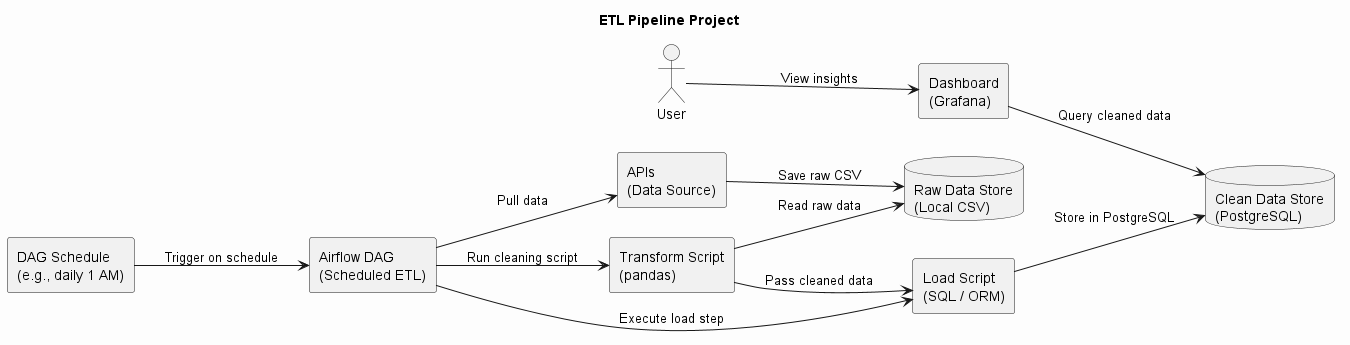
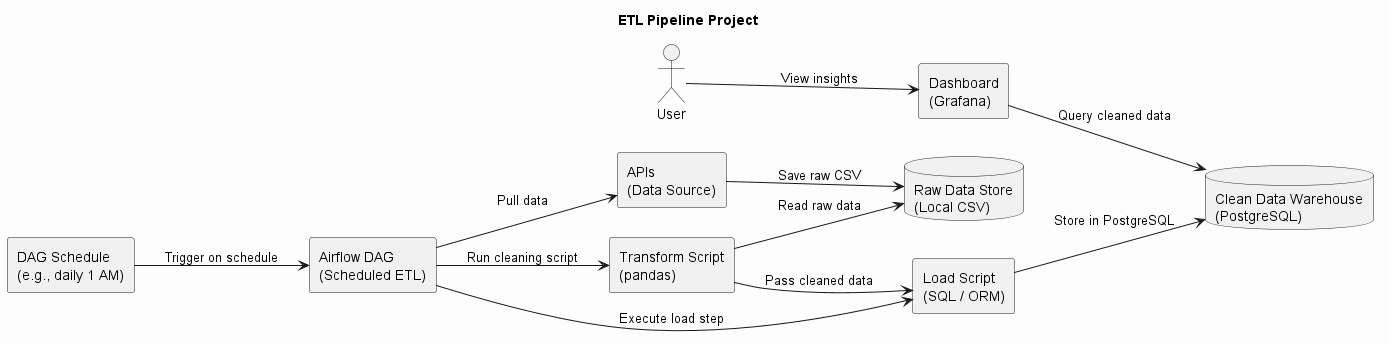
readme updates for topic proposal

diff --git a/README.md b/README.md
@@ -1,10 +1,8 @@
-# Independent Study Project Ideas
-
-My project proposal is to construct a ETL pipeline that pulls from an API data source. Below I have two sources as potential data candidates but both would use the proposed ETL pipeline.
+# Game Popularity Trend Pipeline
 
 ![PipelineImage](/Design/pipeline.png)
 
-## Game Popularity Trend Pipeline
+## Project Overview
 
 This ETL pipeline collects and processes data related to video game popularity on Steam. The primary data sources are:
 
@@ -26,16 +24,49 @@ This ETL pipeline collects and processes data related to video game popularity o
   - Regional popularity
   - Additional metadata
 
-## Satellite Trajectories Pipeline
+## Goals
 
-This ETL pipeline collects, processes, and stores satellite tracking data from **CelesTrak**. The primary data sources are:
+1. Data Integration and Analysis
 
-### CelesTrak Satellite Data
+- Consolidate game popularity data from Steam Web API and SteamSpy into a centralized PostgreSQL database
+- Comprehensive analysis of player count trends across different time periods and game categories
 
-- **URL:** [https://www.celestrak.com/](https://www.celestrak.com/)
-- **Purpose:** Provides satellite tracking data, including real-time and historical information about satellites in orbit, TLE (two-line element) data, and orbital parameters.
-- **Used for:**
-  - Satellite location and trajectories
-  - Tracking active satellites and space debris
-  - TLE data for satellite predictions
-  - Space station data (e.g., ISS position)
+2. Pipeline Reliability
+
+- Robust data collection with error handling for API limitations and outages
+- A modular architecture that can easily incorporate additional data sources or metrics in the future
+
+3. Accessible Visualization
+
+- Intuitive Grafana dashboards that present key metrics and trends
+- Support data-driven decision making with customizable reports
+
+## Milestones:
+
+I plan to use the default milestone dates provided in canvas. As the project progresses and matures, I may make slight changes along the way. I hope to have the following done for each milestone:
+
+### Milestone 1: Data Collection & Storage Foundation
+
+- Implement API connectors for Steam Web API and SteamSpy
+- Create raw data storage layer with proper schema design
+- Build initial ETL pipeline with scheduled Airflow DAGs for daily data collection
+
+Deliverable: Functional pipeline consistently collecting and storing raw game data
+
+### Milestone 2: Data Transformation & Analysis
+
+- Develop transformation scripts using pandas to clean and structure the data
+- Create dimension and fact tables in PostgreSQL for analytical queries
+- Implement historical trend calculations and popularity metrics
+- Build aggregation logic for different time periods (daily, weekly, monthly)
+
+Deliverable: Complete transformation layer with cleaned, structured data ready for analysis
+
+### Milestone 3: Visualization & Insights Platform
+
+- Set up Grafana dashboard with real-time game popularity metrics
+- Create custom visualizations for trend analysis and comparisons
+- Implement automated reports for rising/declining games
+- Build genre, category, and regional analysis features
+
+Deliverable: Fully functional end-to-end system with interactive dashboards for game popularity insights
